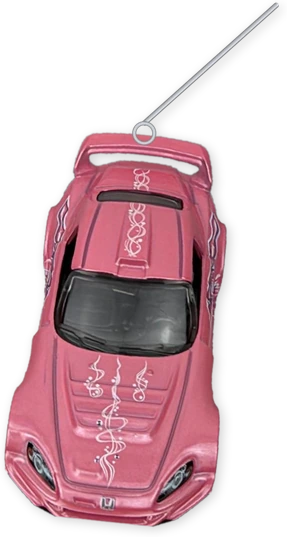
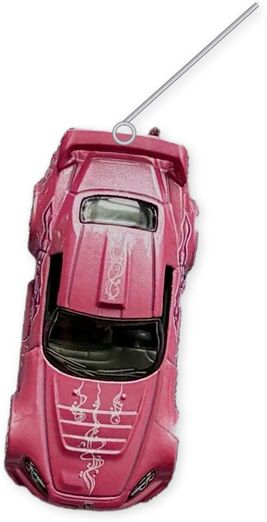
Suki charm: straight top-down from Edward's reference photo
Cut from the denim keychain photo, straightened along the car's length,
hung from the spoiler.

Claude-Session: https://claude.ai/code/session_01NL2CSJLjtWH7qaAE7ZtJhZ

diff --git a/keychain.js b/keychain.js
@@ -24,7 +24,7 @@
     { src: "keychain/01suki.webp", amp: 3, order: 0 },    // Suki S2000 Hot Wheels, top-down (real photo of the loose car)
     { src: "keychain/00padlock.webp", top: true },
   ];
-  const BOX = {"00padlock.webp": [42.333, 1.917, 16.0, 36.5], "01suki.webp": [27.333, 34.083, 23.917, 44.75], "02branding.webp": [34.083, 34.25, 23.75, 58.333], "03editorial.webp": [42.667, 34.167, 24.0, 64.083], "04photoworks.webp": [48.167, 33.917, 29.083, 64.583], "05illustration.webp": [47.917, 33.75, 31.833, 37.917], "06photo.webp": [33.667, 33.917, 30.75, 54.083]};
+  const BOX = {"00padlock.webp": [42.333, 1.917, 16.0, 36.5], "01suki.webp": [29.0, 34.083, 22.25, 43.5], "02branding.webp": [34.083, 34.25, 23.75, 58.333], "03editorial.webp": [42.667, 34.167, 24.0, 64.083], "04photoworks.webp": [48.167, 33.917, 29.083, 64.583], "05illustration.webp": [47.917, 33.75, 31.833, 37.917], "06photo.webp": [33.667, 33.917, 30.75, 54.083]};
   const SWING = 30;          // degrees the other charms move aside
   const PERIOD = 3600, BOB = 4, REF = 461;
   const K = 170, D = 15;     // spring stiffness / damping: settles in ~0.8 s with a small overshoot
